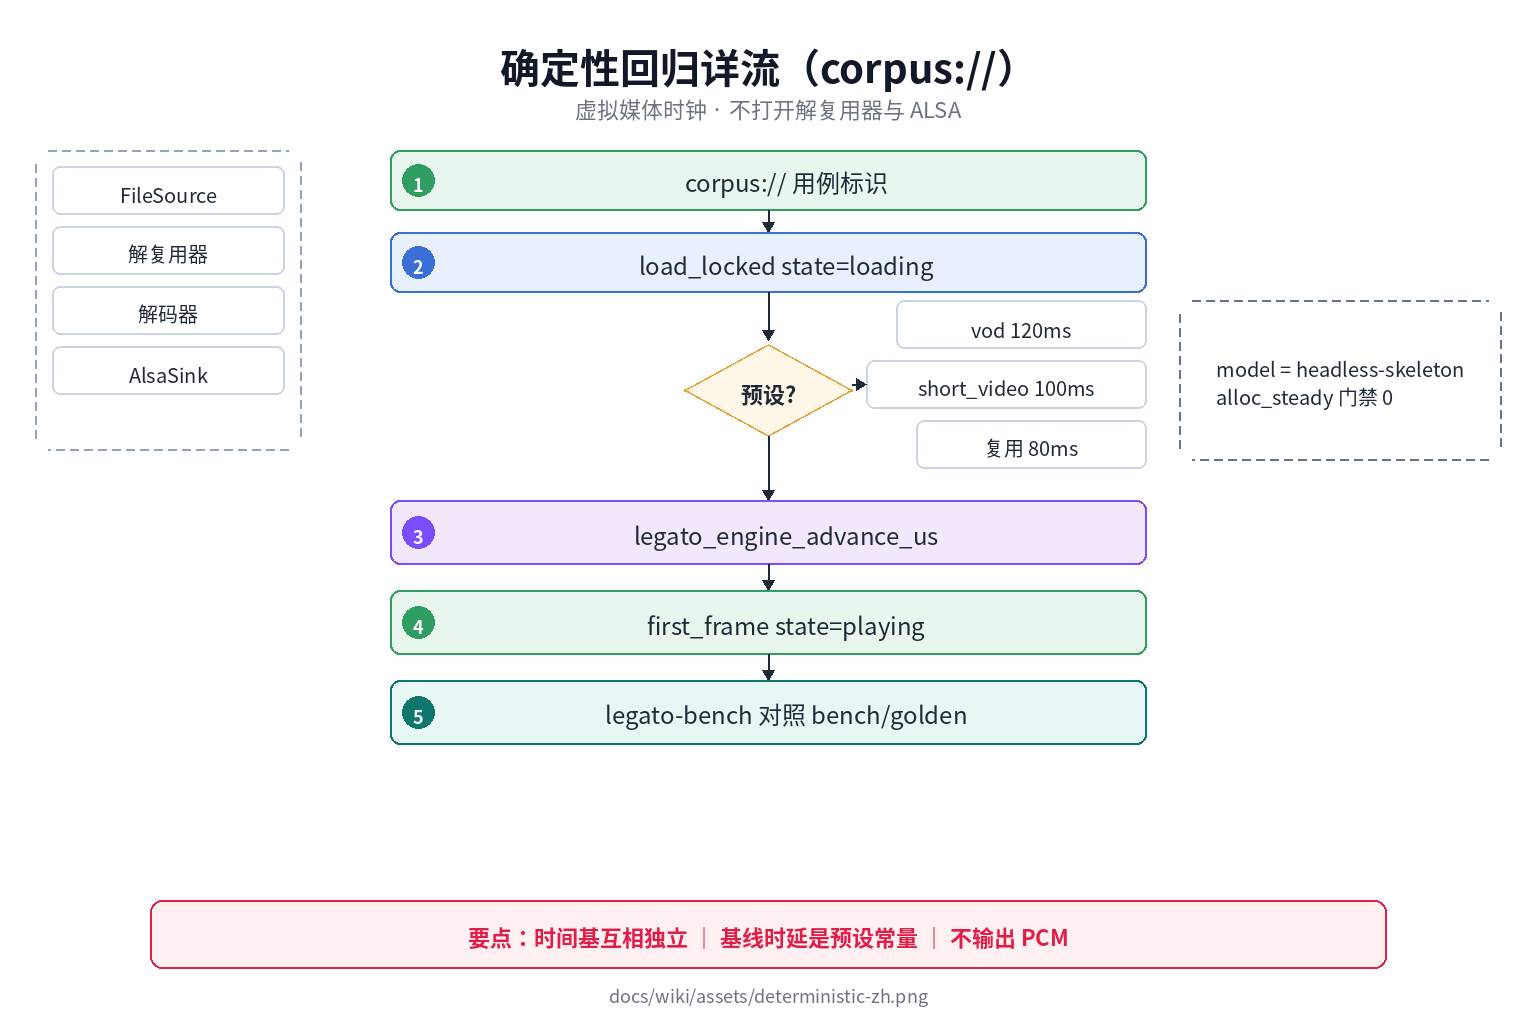
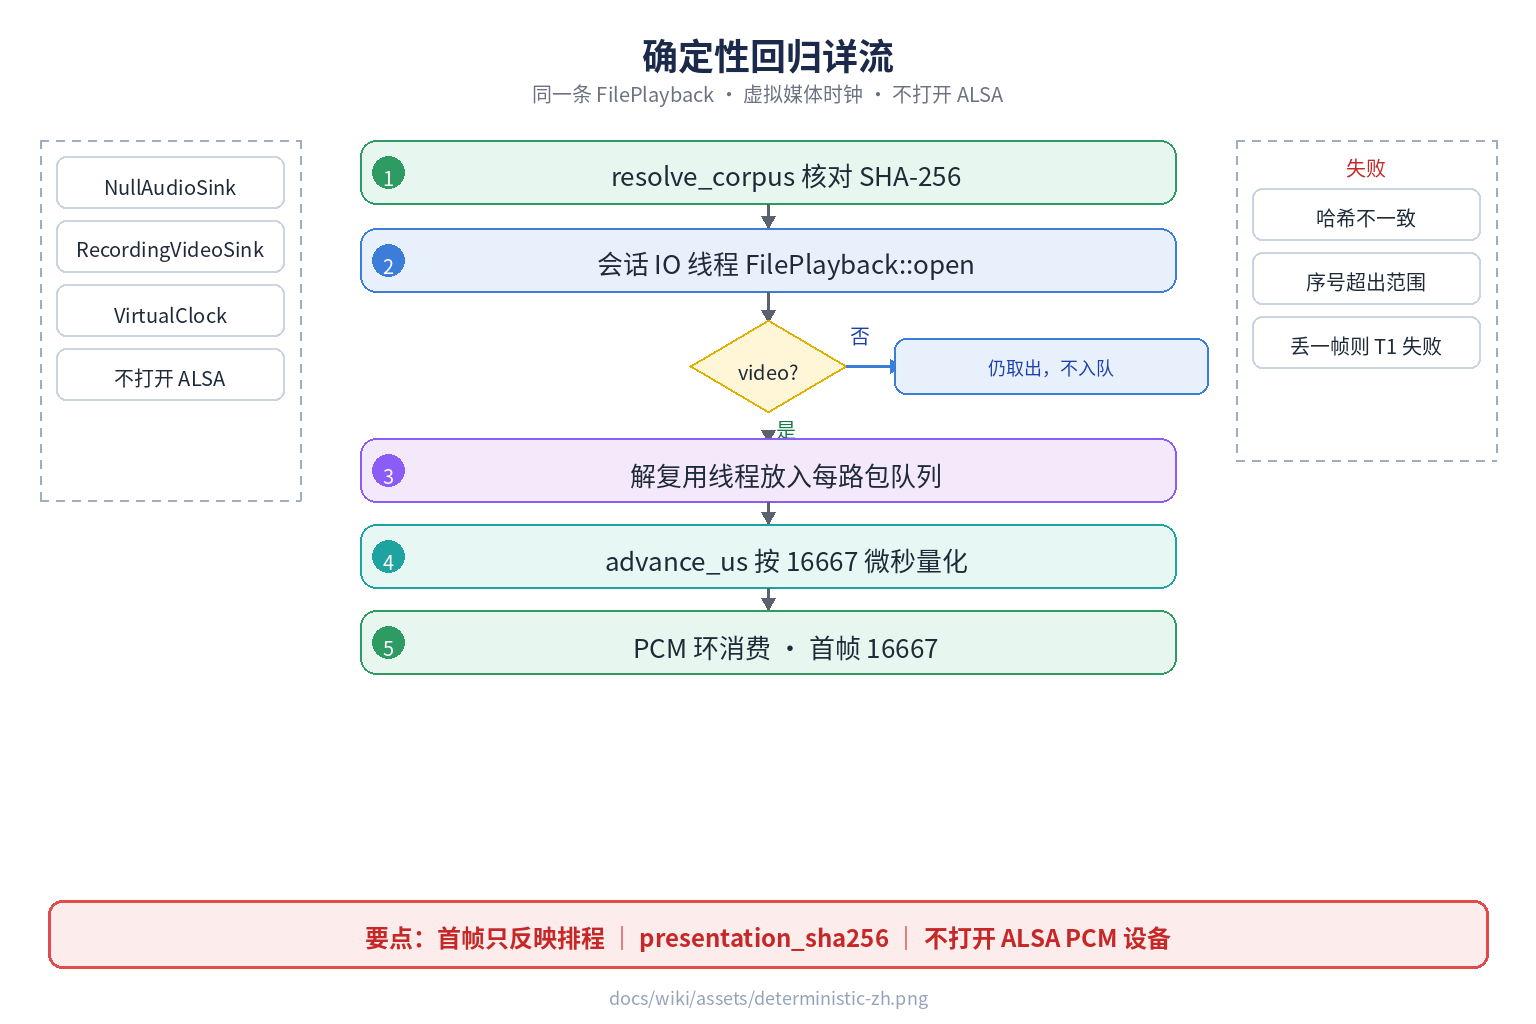
按当前管线改写 README 和主链详流。
导览写明每路包队列、PCM 环和音频输出线程。见底进入 buffering。确定性回归仍不打开 ALSA PCM 设备。

diff --git a/docs/wiki/pages/file-playback.html b/docs/wiki/pages/file-playback.html
@@ -1,14 +1,14 @@
 <section class="page" data-id="file-playback" data-group="流程" data-title="本地播放">
   <div class="card">
     <h2>本地文件播放</h2>
-    <p class="lede">管线为 <code>FileSource</code> → <code>FFmpegDemuxer</code> → <code>FFmpegSwDecoder</code> → <code>AlsaSink</code>。解码线程在会话生命周期内只创建一次。控制线程只改标志。</p>
-    <h3>1. 打开与读包</h3>
-    <p><code>FFmpegDemuxer</code> 使用 <code>AVFMT_FLAG_CUSTOM_IO</code>，字节来自 <code>DataSource</code>。存在音频流时必须打开 ALSA PCM 设备，输出为交错 S16，采样率取协商结果。无音频流时按视频 PTS 调度，视频帧在 <code>receive</code> 后释放，不送显示 Sink。</p>
+    <p class="lede">管线为 <code>FileSource</code> → <code>FFmpegDemuxer</code> → 每路包队列 → <code>FFmpegSwDecoder</code> → PCM 环或帧队列 → 音频输出线程。打开在会话 IO 线程上。控制线程只改标志。</p>
+    <h3>1. 打开与队列</h3>
+    <p><code>FFmpegDemuxer</code> 使用 <code>AVFMT_FLAG_CUSTOM_IO</code>，字节来自 <code>DataSource</code>。解复用线程按流把包放进队列。时长上限是预设的 <code>buffer_max_s</code>，字节上限是这个秒数乘以 1 MiB/s。视频帧队列容量 8。包和帧带 <code>serial</code>。存在音频流时必须打开 ALSA PCM 设备，输出为交错 S16。视频帧不送显示 Sink。</p>
     <h3>2. 主时钟与流结束</h3>
-    <p>音频主时钟为 <code>origin_us + (written_frames - snd_pcm_delay) * 1000000 / rate</code>。首次写入成功调用 <code>media_first_frame</code>，<code>state</code> 转为 <code>playing</code>。EOF 之后取出重采样残余样本，再 <code>snd_pcm_drain</code>。drain 期间若暂停或 Seek 已经置位，不发送 EOS。</p>
+    <p>音频输出线程从 PCM 环取出样本再写入设备。音频主时钟为 <code>origin_us + (written_frames - snd_pcm_delay) * 1000000 / rate</code>。首次写入成功调用 <code>media_first_frame</code>。EOF 之后取出重采样残余样本，再 <code>snd_pcm_drain</code>。drain 期间若暂停或 Seek 已经置位，不发送 EOS。</p>
     <h3>3. 传输控制</h3>
-    <p>暂停调用 <code>AlsaSink::drop</code>。设备欠载才 <code>snd_pcm_recover</code>。<code>stop_and_join</code> 不能在持有 <code>Player::mu_</code> 时执行，因为 <code>media_first_frame</code> 需要同一把锁。</p>
-    <p class="src"><code>FilePlayback::open</code> · <code>run</code> · <code>engine/src/file_playback.cpp</code></p>
+    <p>暂停调用 <code>AlsaSink::drop</code>。设备欠载才 <code>snd_pcm_recover</code>。包队列见底时 <code>state</code> 变为 <code>buffering</code>，<code>stall_count</code> 加一。<code>FilePlayback::stop</code> 不能在持有 <code>Player::mu_</code> 时执行，因为音频输出线程回调 <code>media_first_frame</code> 需要同一把锁。</p>
+    <p class="src"><code>FilePlayback::open</code> · <code>run</code> · <code>stop</code> · <code>engine/src/file_playback.cpp</code></p>
   </div>
   <figure class="figure">
     <img src="assets/file-playback-zh.png" alt="本地文件播放主链" width="1536" height="1024" />

diff --git a/docs/wiki/pages/session-entry.html b/docs/wiki/pages/session-entry.html
@@ -1,12 +1,12 @@
 <section class="page" data-id="session-entry" data-group="流程" data-title="会话入口">
   <div class="card">
     <h2>会话入口</h2>
-    <p class="lede"><code>legato_player_load</code> 在控制线程上执行完才返回。返回值 0 表示命令已受理，不表示媒体已经打开。</p>
+    <p class="lede"><code>legato_player_load</code> 经 <code>Engine::post</code> 入队后返回。返回值 0 表示命令已受理，不表示媒体已经打开。打开在会话 IO 线程上执行，不持有 <code>Engine::mu_</code> 或 <code>Player::mu_</code>。</p>
     <h3>1. 分发</h3>
-    <p><code>Player::load_locked</code> 读取 <code>legato_media_item.uri</code>。<code>corpus:</code> 进入确定性回归。<code>file://</code> 与无 scheme 的路径进入 <code>FilePlayback::open</code>。其它带 <code>://</code> 的 scheme 将 <code>state</code> 置为 <code>error</code>，<code>message</code> 为「这个协议还不能播」。</p>
+    <p>控制线程上的 <code>Player::begin_load_locked</code> 读取 <code>legato_media_item.uri</code>。<code>corpus:</code> 先由 <code>resolve_corpus</code> 核对内容哈希，再排队打开，时钟为虚拟媒体时钟。<code>file://</code> 与无 scheme 的路径经 <code>local_file_path</code> 排队打开，时钟为音频主时钟。其它带 <code>://</code> 的 scheme 将 <code>state</code> 置为 <code>error</code>，错误名 <code>unsupported_scheme</code>，<code>message</code> 为「这个协议还不能播」。</p>
     <h3>2. 打开结果</h3>
-    <p>打开成功时 <code>state=loading</code>。若 <code>playing_intent_</code> 已经置位，<code>FilePlayback::start</code> 立即启动解码线程。打开失败时释放 <code>playback_</code>，<code>file_mode_=false</code>，<code>state=error</code>。空 URI、超长路径分别对应「uri 为空」和「路径太长」。</p>
-    <p class="src"><code>Player::load_uri</code> · <code>local_path</code> · <code>load_locked</code> · <code>engine/src/player.cpp</code></p>
+    <p>排队时 <code>state=loading</code>，并发出 <code>state_changed</code>。IO 线程调用 <code>FilePlayback::open</code>。完成后控制线程执行 <code>finish_open_job</code>：成功则在 <code>playing_intent_</code> 已置位时 <code>start</code>，并发送 <code>command_done</code>；失败则 <code>state=error</code>。空 URI、超长路径分别对应「uri 为空」和「路径太长」。<code>legato_player_release</code> 只标记并投递回收，join 在回收线程上，调用线程立即返回。事件环不覆盖 <code>error</code>、<code>ended</code>、<code>first_frame</code>、<code>state_changed</code>。Seek 与同一属性的 <code>property_changed</code> 各自合并。<code>observe</code> 由控制线程按间隔轮询。</p>
+    <p class="src"><code>Player::begin_load_locked</code> · <code>local_file_path</code> · <code>resolve_corpus</code> · <code>engine/src/player.cpp</code></p>
   </div>
   <figure class="figure">
     <img src="assets/session-entry-zh.png" alt="会话入口详流" width="1536" height="1024" />

diff --git a/docs/wiki/pages/deterministic.html b/docs/wiki/pages/deterministic.html
@@ -1,12 +1,12 @@
 <section class="page" data-id="deterministic" data-group="流程" data-title="确定性回归">
   <div class="card">
     <h2>确定性回归</h2>
-    <p class="lede"><code>corpus://</code> 是用例标识，不映射到文件系统。该路径不创建 <code>FileSource</code>、解复用器、解码器和 <code>AlsaSink</code>，也不输出 PCM。</p>
+    <p class="lede"><code>corpus://</code> 先核对 <code>testdata/corpus.yaml</code> 的内容哈希，再经 <code>FileSource</code> 进入 <code>FilePlayback</code>。解复用线程把包放进每路队列。该路径不打开 ALSA PCM 设备。音频由 <code>NullAudioSink</code> 按虚拟媒体时钟从 PCM 环消费，呈现记录由 <code>RecordingVideoSink</code> 写入。</p>
     <h3>1. 虚拟媒体时钟</h3>
-    <p><code>load_locked</code> 将 <code>state</code> 置为 <code>loading</code>，并按预设登记首帧定时器。点播 120ms，短视频冷启动 100ms，解码器复用 80ms。时钟只在 <code>legato_engine_advance_us</code> 被调用时前进。到期后发送 <code>first_frame</code>，<code>state</code> 转为 <code>playing</code>。</p>
+    <p><code>begin_load_locked</code> 将 <code>state</code> 置为 <code>loading</code>，并把打开交给会话 IO 线程。时钟只在 <code>legato_engine_advance_us</code> 被调用时前进，内部按 16667 微秒的垂直同步量化。第一帧在第一次同步呈现，<code>first_frame.us</code> 为 16667，与解码耗时无关。</p>
     <h3>2. 基线</h3>
-    <p><code>legato-bench</code> 将结果与 <code>bench/golden/</code> 比对。结果字段 <code>model</code> 的字面量是 <code>headless-skeleton</code>，表示基线来自虚拟媒体时钟。进入稳态后 <code>alloc_steady</code> 的门禁为 0。基线时延是预设常量，不回写本地播放的实测值。两条路径的时间基相互独立。</p>
-    <p class="src"><code>examples/hello.c</code> · <code>bench/src/bench_main.cpp</code> · <code>bench/golden/</code></p>
+    <p><code>legato-bench</code> 将结果与 <code>bench/golden/</code> 比对。结果字段 <code>model</code> 的字面量是 <code>pipeline</code>。基线含呈现 PTS 序列哈希 <code>presentation_sha256</code>。进入稳态后 <code>alloc_steady</code> 的门禁为 0，只统计 <code>tracked_malloc</code>。丢掉一帧时 T1 必须失败。</p>
+    <p class="src"><code>resolve_corpus</code> · <code>NullAudioSink</code> · <code>RecordingVideoSink</code> · <code>bench/golden/</code></p>
   </div>
   <figure class="figure">
     <img src="assets/deterministic-zh.png" alt="确定性回归详流" width="1536" height="1024" />

diff --git a/docs/wiki/pages/overview.html b/docs/wiki/pages/overview.html
@@ -1,11 +1,11 @@
 <section class="page" data-id="overview" data-group="总览" data-title="阅读说明">
   <div class="card">
     <h2>流程架构</h2>
-    <p class="lede">Legato 是跨平台音视频播放引擎。本导览只记录当前仓库已经实现的两条路径：本地文件播放，以及 <code>corpus://</code> 确定性回归。图是主链详流，正文给出调用点和状态。</p>
+    <p class="lede">Legato 是跨平台音视频播放引擎。本导览只记录当前仓库已经实现的路径：本地文件播放，以及 <code>corpus://</code> 确定性回归。两条路径共用 <code>FilePlayback</code>。图是主链详流，正文给出调用点和状态。</p>
     <h3>1. 怎么读</h3>
     <p>每一张图中间是一条从上到下的主链。左栏是入口或本路径不创建的对象，右栏是失败与旁路，底栏是必须记住的不变量。图上的符号与代码一致；过期时以代码为准。</p>
     <h3>2. 三条主链</h3>
-    <p><a href="#session-entry">会话入口</a>说明 <code>legato_player_load</code> 如何按 URI scheme 分发。<a href="#file-playback">本地播放</a>是 <code>FileSource</code> → <code>FFmpegDemuxer</code> → <code>FFmpegSwDecoder</code> → <code>AlsaSink</code>。<a href="#deterministic">确定性回归</a>不创建这条管线，只推进虚拟媒体时钟。</p>
+    <p><a href="#session-entry">会话入口</a>说明 <code>legato_player_load</code> 入队后返回，打开在会话 IO 线程上完成。<a href="#file-playback">本地播放</a>是 <code>FileSource</code> → <code>FFmpegDemuxer</code> → 每路包队列 → <code>FFmpegSwDecoder</code> → PCM 环或帧队列 → 音频输出线程。<a href="#deterministic">确定性回归</a>走同一条管线，时钟换成虚拟媒体时钟，音频换成 <code>NullAudioSink</code>，视频记录换成 <code>RecordingVideoSink</code>。</p>
     <p class="src">字段与构建见仓库 <code>README.md</code>。图的绘制约束见 <code>.cursor/skills/legato-writing/SKILL.md</code>。</p>
   </div>
 </section>
